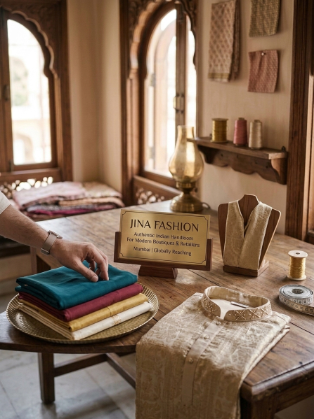
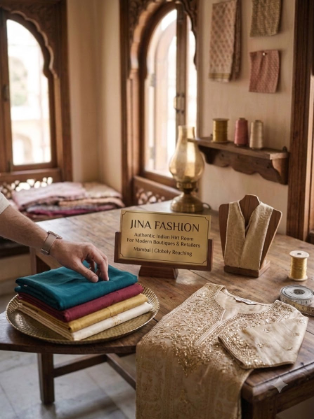
fix: typo fixes and image change

diff --git a/src/pages/Home.tsx b/src/pages/Home.tsx
@@ -162,7 +162,7 @@ export default function Home({ navigate }: Props) {
 
   const testimonials = [
     {
-      quote: "Jina Fashion has completely transformed our boutique's inventory. Their sarees feature unparalleled fabric quality and modern designer motifs that our luxury clients snap up immediately. Order delivery is fast and secure.",
+      quote: "Jina Fashion has completely transformed our boutique's inventory. Their Kurties feature unparalleled fabric quality and modern designer motifs that our luxury clients snap up immediately. Order delivery is fast and secure.",
       author: "Anjali Gupta",
       role: "Founder, Srishti Boutique",
       city: "New Delhi",
@@ -203,7 +203,7 @@ export default function Home({ navigate }: Props) {
                 For Modern Boutiques & Retailers
               </h2>
               <p className="text-sm sm:text-base text-body-custom leading-relaxed font-sans">
-                At Jina Fashion, we believe ethnic wear is more than clothing, it's a reflection of culture, confidence, and individuality. Based in Kalbadevi, Mumbai, we manufacture premium women's ethnic wear that blends traditional craftsmanship with contemporary design.
+                At Jina Fashion, we believe ethnic wear is more than clothing, it's a reflection of culture, confidence, and individuality. Based in Lower Parel, Mumbai, we manufacture premium women's ethnic wear that blends traditional craftsmanship with contemporary design.
               </p>
               <p className="text-sm sm:text-base text-body-custom leading-relaxed font-sans">
                 Built on a family legacy spanning over 100 years in the garment industry, we combine generations of expertise with modern manufacturing to create collections that are elegant, comfortable, and made for today's women. Every piece reflects our commitment to quality, consistency, and lasting value. 
@@ -524,7 +524,7 @@ export default function Home({ navigate }: Props) {
               <span className="italic text-brand-accent font-normal">Premium Indian Wear</span>
             </h2>
             <p className="text-sm text-neutral-300 leading-relaxed max-w-xl mx-auto font-sans">
-              Ready to stock high-margin sarees, suits, and designer kurtas in your retail shop or boutique? Request a comprehensive printed catalog or connect directly with our Mumbai trade experts.
+              Ready to stock high-margin Cord Sets, Dupatta Sets, Kurties, Pant/Plazzo set, and Short Tops in your retail shop or boutique? Request a comprehensive printed catalog or connect directly with our Mumbai trade experts.
             </p>
             
             <div className="flex flex-col sm:flex-row items-center justify-center gap-4 pt-4 max-w-md mx-auto">

diff --git a/src/pages/About.tsx b/src/pages/About.tsx
@@ -46,7 +46,7 @@ export default function About({ navigate }: Props) {
                 Ladies Ethnic Wear Manufacturing
               </h2>
               <p className="text-sm sm:text-base text-body-custom leading-relaxed font-sans">
-                Established in 2021 in the vibrant textile hub of Kalbadevi, Mumbai, <strong>JINA Fashion</strong> is a manufacturer of premium ladies ethnic wear, dedicated to creating elegant designs that celebrate tradition with a contemporary touch.
+                Established in 2021 in the vibrant textile hub of Lower Parel, Mumbai, <strong>JINA Fashion</strong> is a manufacturer of premium ladies ethnic wear, dedicated to creating elegant designs that celebrate tradition with a contemporary touch.
               </p>
               <p className="text-sm sm:text-base text-body-custom leading-relaxed font-sans">
                 Founded by a third-generation entrepreneur, JINA Fashion proudly carries forward a family legacy that spans over a century. The journey began more than 100 years ago with a small retail store established by his grandfather in Lower Parel, Mumbai. Over the years, the family expanded its presence into the wholesale garment business under the leadership of his father and brother, building a strong reputation for quality, trust, and customer relationships.
@@ -54,7 +54,7 @@ export default function About({ navigate }: Props) {
               <div className="grid grid-cols-3 gap-4 pt-6 border-t border-border-custom">
                 {[
                   ['100+ Yrs', 'Family Legacy'],
-                  ['2021', 'Kalbadevi Studio'],
+                  ['2021', 'Lower Parel Showroom'],
                   ['Mumbai', 'HQ Manufacturing'],
                 ].map(([val, label]) => (
                   <div key={label} className="space-y-1">

diff --git a/src/pages/Contact.tsx b/src/pages/Contact.tsx
@@ -408,7 +408,7 @@ export default function Contact() {
                 </div>
                 <div>
                   <h4 className="font-display text-base text-primary font-normal">Visit Our Mumbai HQ</h4>
-                  <p className="text-[10px] text-muted-custom font-sans uppercase tracking-wider">Kalbadevi / Lower Parel</p>
+                  <p className="text-[10px] text-muted-custom font-sans uppercase tracking-wider">Lower Parel</p>
                 </div>
               </div>
               <p className="text-xs text-body-custom font-sans leading-relaxed">
@@ -436,7 +436,7 @@ export default function Contact() {
               </div>
               <div>
                 <h4 className="font-display text-base text-primary font-normal">Visit Our Mumbai HQ</h4>
-                <p className="text-[10px] text-muted-custom font-sans uppercase tracking-wider">Kalbadevi / Lower Parel</p>
+                <p className="text-[10px] text-muted-custom font-sans uppercase tracking-wider">Lower Parel</p>
               </div>
             </div>
             <p className="text-xs text-body-custom font-sans leading-relaxed">

diff --git a/api/chat.ts b/api/chat.ts
@@ -5,7 +5,7 @@ dotenv.config()
 const SYSTEM_PROMPT = `Your name is Maya, the official AI Assistant for Jina Fashion (Mumbai, India), a premier manufacturer and wholesaler of ladies ethnic wear.
 
 Company Background & Legacy:
-- Established in 2021 in the vibrant textile hub of Kalbadevi, Mumbai.
+- Established in 2021 in the vibrant textile hub of Lower Parel, Mumbai.
 - Founded by a third-generation entrepreneur, carrying forward a family legacy spanning over 100 years! The journey began over a century ago with a small retail store established by his grandfather in Lower Parel, Mumbai. Over the years, his father and brother expanded into wholesale garments.
 - Mission: To create premium ethnic wear while delivering exceptional quality, value, and customer satisfaction by eliminating trade brokers and offering honest factory pricing.
 - Vision: To establish Jina Fashion as the globally preferred wholesale manufacturing partner for women's ethnic wear.
